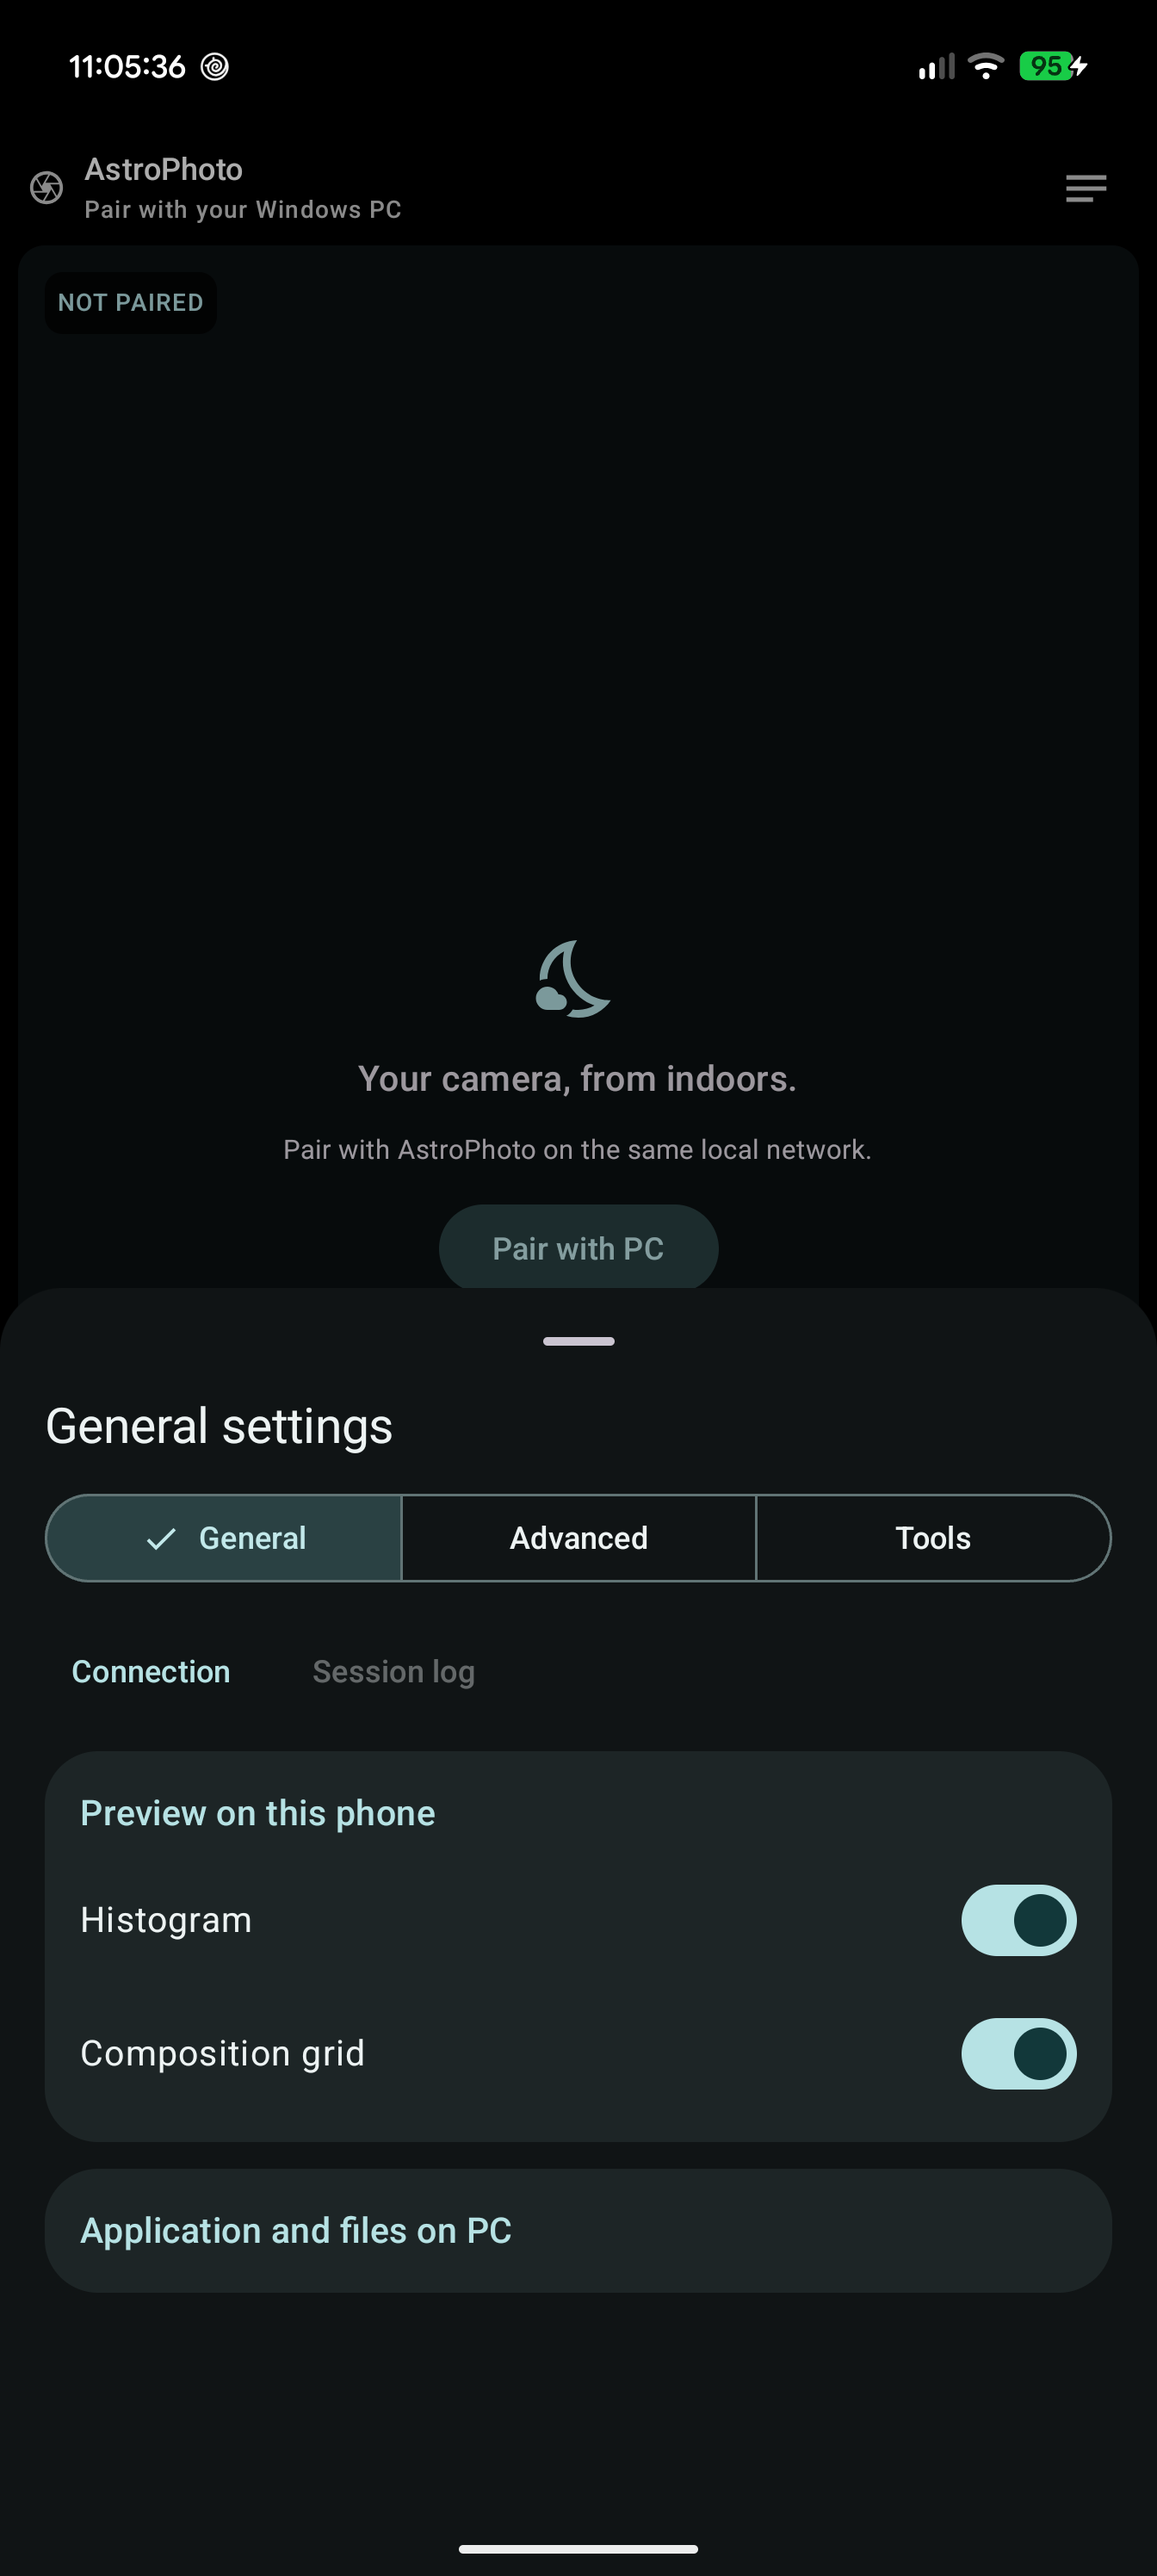
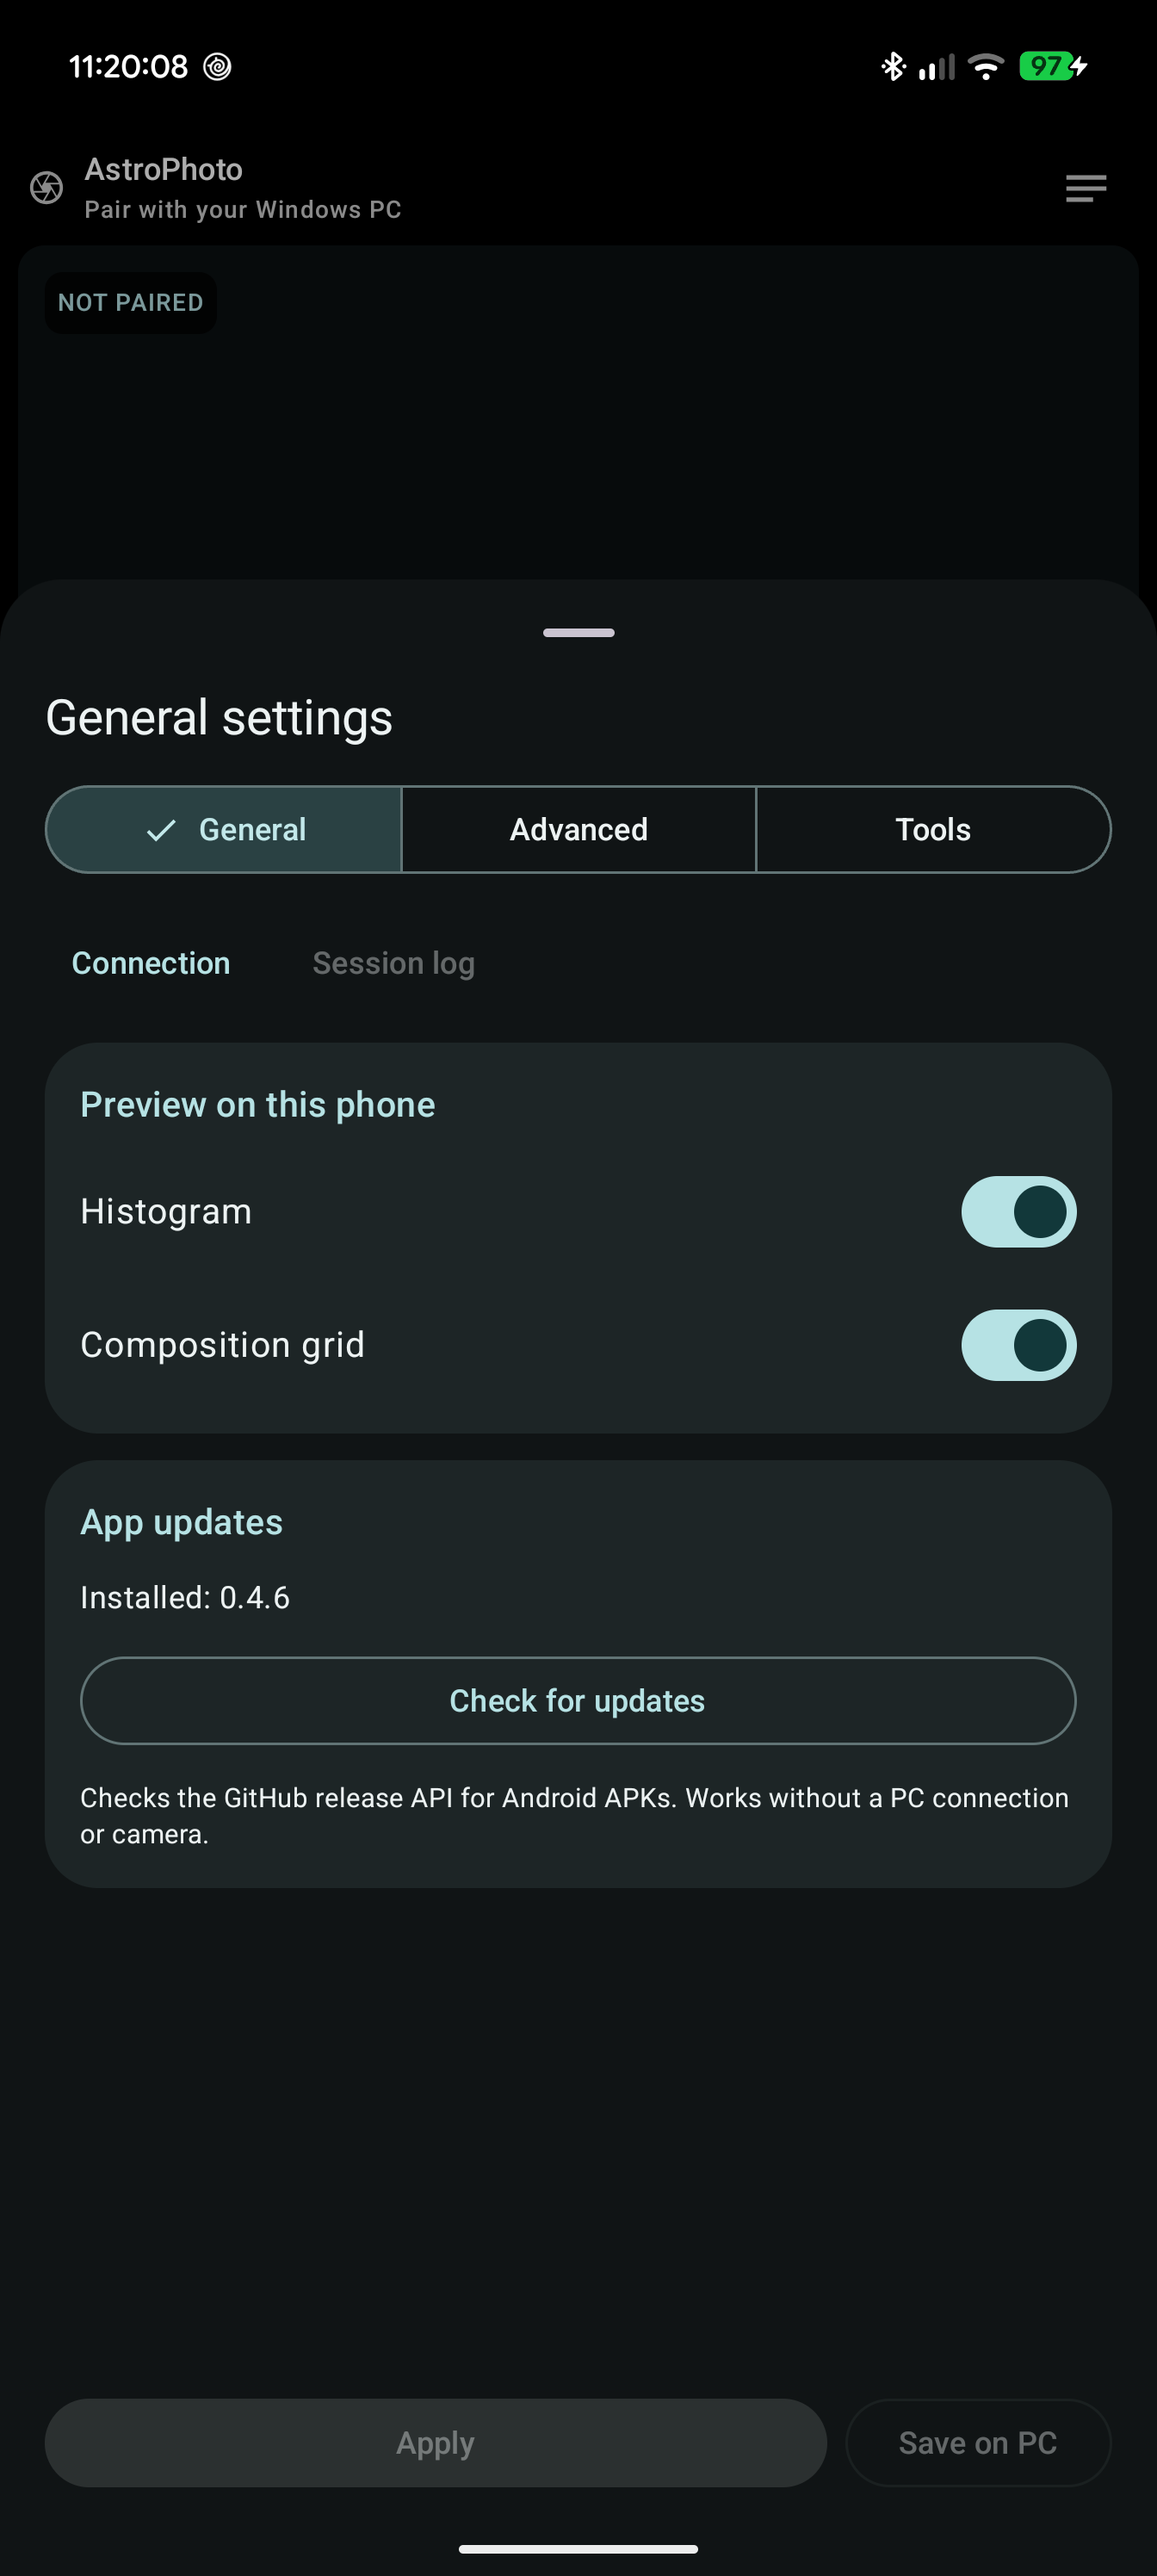
Refresh current workspace captures and published MSI/APK download catalog

diff --git a/site/src/components/HeroSection/HeroSection.tsx b/site/src/components/HeroSection/HeroSection.tsx
@@ -19,8 +19,8 @@ export function HeroSection({ content, brandName }: HeroSectionProps) {
         <Reveal delay={100} className="hero-preview">
           <figure className="app-frame">
             <div className="frame-title"><span className="hud-label">AstroPhoto / Full workspace</span><span className="hud-label">Windows x64</span></div>
-            <a href={publicAsset("/screenshots/all.png")} target="_blank" rel="noreferrer" aria-label="Open the full-size AstroPhoto application screenshot"><Image src={publicAsset("/screenshots/all.png")} alt="Complete AstroPhoto interface with toolbar, connection, camera settings, image and focus tools, capture sequences, files and session, and operation log" width={captures.images["all.png"].width} height={captures.images["all.png"].height} priority className="block h-auto w-full" /></a>
-            <figcaption className="frame-title"><span>Complete application workspace.</span><a className="text-link" href={publicAsset("/screenshots/all.png")} target="_blank" rel="noreferrer">Full resolution ↗</a></figcaption>
+            <a href={publicAsset("/screenshots/windows-0107-workspace.png")} target="_blank" rel="noreferrer" aria-label="Open the full-size AstroPhoto application screenshot"><Image src={publicAsset("/screenshots/windows-0107-workspace.png")} alt="Complete AstroPhoto interface with toolbar, connection, camera settings, image and focus tools, capture sequences, files and session, and operation log" width={captures.images["windows-0107-workspace.png"].width} height={captures.images["windows-0107-workspace.png"].height} priority className="block h-auto w-full" /></a>
+            <figcaption className="frame-title"><span>Windows 0.10.7 · loaded sky image · no camera.</span><a className="text-link" href={publicAsset("/screenshots/windows-0107-workspace.png")} target="_blank" rel="noreferrer">Full resolution ↗</a></figcaption>
           </figure>
         </Reveal>
       </div>
@@ -28,3 +28,4 @@ export function HeroSection({ content, brandName }: HeroSectionProps) {
     </div>
   </section>;
 }
+

diff --git a/site/src/components/AndroidSection.tsx b/site/src/components/AndroidSection.tsx
@@ -21,6 +21,6 @@ export function AndroidSection() {
         </figure>;
       })}
     </div>
-    <div className="android-caption"><p>Actual Android 0.4.6 captures from the connected Pixel 8 Pro, 24 November 2026, without a camera. No preview is simulated. Pairing, settings and the update API were tested against the installed Windows host without a camera; optical acquisition was not requalified.</p><a className="text-link" href="#downloads">Get the Android APK ↓</a><a className="text-link" href={`${repository}/blob/main/docs/ANDROID_REMOTE.md`}>Pairing and setup ↗</a></div>
+    <div className="android-caption"><p>Actual Android 0.4.6 captures from the connected Pixel 8 Pro, 24 November 2026, without a camera. No preview is simulated. The update-check image predates release publication. Pairing, settings and the update API were tested against the installed Windows host without a camera; optical acquisition was not requalified.</p><a className="text-link" href="#downloads">Get the Android APK ↓</a><a className="text-link" href={`${repository}/blob/main/docs/ANDROID_REMOTE.md`}>Pairing and setup ↗</a></div>
   </section>;
 }

diff --git a/README.md b/README.md
@@ -4,7 +4,7 @@ Windows astrophotography capture and processing, with an Android remote.
 C++20 and Dear ImGui on Windows; Kotlin, Jetpack Compose and Material 3 on
 Android. Cameras and image files stay on the PC.
 
-![AstroPhoto desktop workspace](docs/site-captures/all.png)
+![AstroPhoto 0.10.7 workspace with a user-supplied sky image loaded from disk, camera disconnected](docs/site-captures/windows-0107-workspace.png)
 
 [Website](https://artur73737.github.io/AstroPhoto/) · [User guide](docs/USER_GUIDE.md) · [Releases](https://github.com/Artur73737/AstroPhoto/releases)
 
@@ -125,3 +125,4 @@ Android separates protocol, network, shared model, design system and feature mod
 - [Third-party notices](licenses): SDK, library and derived-code terms remain applicable.
 
 Canon and EOS are trademarks of Canon Inc.; ZWO ASI names belong to ZWO.
+
